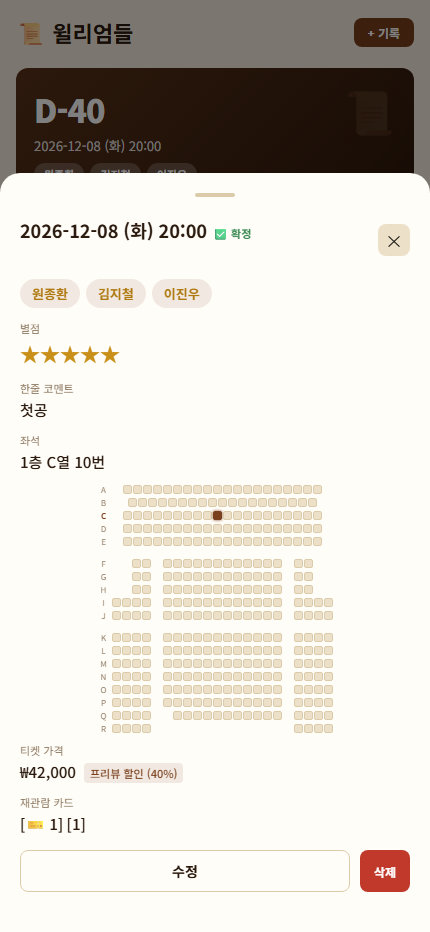
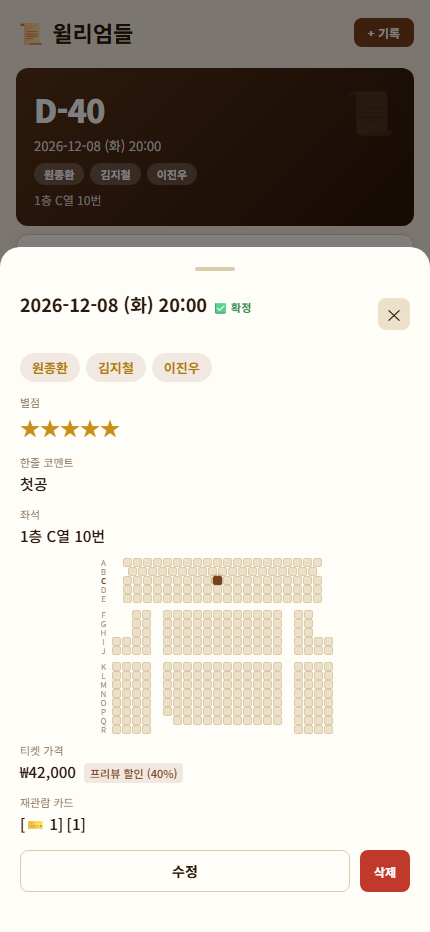
좌석도 세로 간격을 가로 간격과 맞춤
열 라벨 글자 높이(약 13px)가 좌석 칸(11px)보다 커서 행 간격이 가로의 4배로 벌어졌다.
라벨 높이를 좌석 칸에 고정하고 행 간격을 1px 로. 상세 미니 좌석도도 같이.

diff --git a/index.html b/index.html
@@ -169,9 +169,9 @@
   .heatmap-tab{flex:1;padding:7px;border-radius:8px;border:1.5px solid var(--border);background:var(--bg3);color:var(--text2);font-size:13px;font-weight:600;cursor:pointer;text-align:center;}
   .heatmap-tab.active{background:var(--accent);color:#fff;border-color:var(--accent);}
   .heatmap-scroll{overflow-x:auto;}
-  .heatmap-wrap{padding:4px 0;display:flex;flex-direction:column;gap:2px;width:max-content;margin:0 auto;}
+  .heatmap-wrap{padding:4px 0;display:flex;flex-direction:column;gap:1px;width:max-content;margin:0 auto;}
   .hm-row{display:flex;align-items:center;gap:0;}
-  .hm-label{width:18px;font-size:9px;color:var(--text3);text-align:center;font-weight:700;flex-shrink:0;}
+  .hm-label{width:18px;height:11px;line-height:11px;font-size:9px;color:var(--text3);text-align:center;font-weight:700;flex-shrink:0;}
   .hm-cell{width:11px;height:11px;border-radius:2px;background:var(--bg3);border:1px solid var(--border);flex-shrink:0;}
   .hm-cell.v1{background:var(--seat1);border-color:var(--seat1);}
   .hm-cell.v2{background:var(--seat2);border-color:var(--seat2);}
@@ -2050,7 +2050,7 @@ function buildMiniSeat(floor, rowKey, num) {
     return h;
   }
 
-  let html = '<div style="overflow-x:auto;margin:8px 0;"><div style="display:flex;flex-direction:column;gap:2px;width:max-content;margin:0 auto;">';
+  let html = '<div style="overflow-x:auto;margin:8px 0;"><div style="display:flex;flex-direction:column;gap:${G}px;width:max-content;margin:0 auto;">';
   let prevRow = null;
   plan.rows.forEach(r => {
     if (prevRow && (plan.gapAfter || []).includes(prevRow)) html += '<div style="height:7px;"></div>';
@@ -2058,7 +2058,7 @@ function buildMiniSeat(floor, rowKey, num) {
     const cfg = plan.def[r];
     if (!cfg) return;
     const isTarget = r === rowKey;
-    const lbl = `<div style="width:14px;font-size:8px;color:${isTarget?'var(--accent)':'var(--text3)'};text-align:center;font-weight:${isTarget?'700':'400'};flex-shrink:0;margin-right:${G}px;">${r}</div>`;
+    const lbl = `<div style="width:14px;height:${C}px;line-height:${C}px;font-size:8px;color:${isTarget?'var(--accent)':'var(--text3)'};text-align:center;font-weight:${isTarget?'700':'400'};flex-shrink:0;margin-right:${G}px;">${r}</div>`;
     html += `<div style="display:flex;align-items:center;gap:0;">${lbl}`;
     if (lead > 0) html += `<div style="width:${lead}px;flex-shrink:0;"></div>`;
     if (cfg.merged) {
